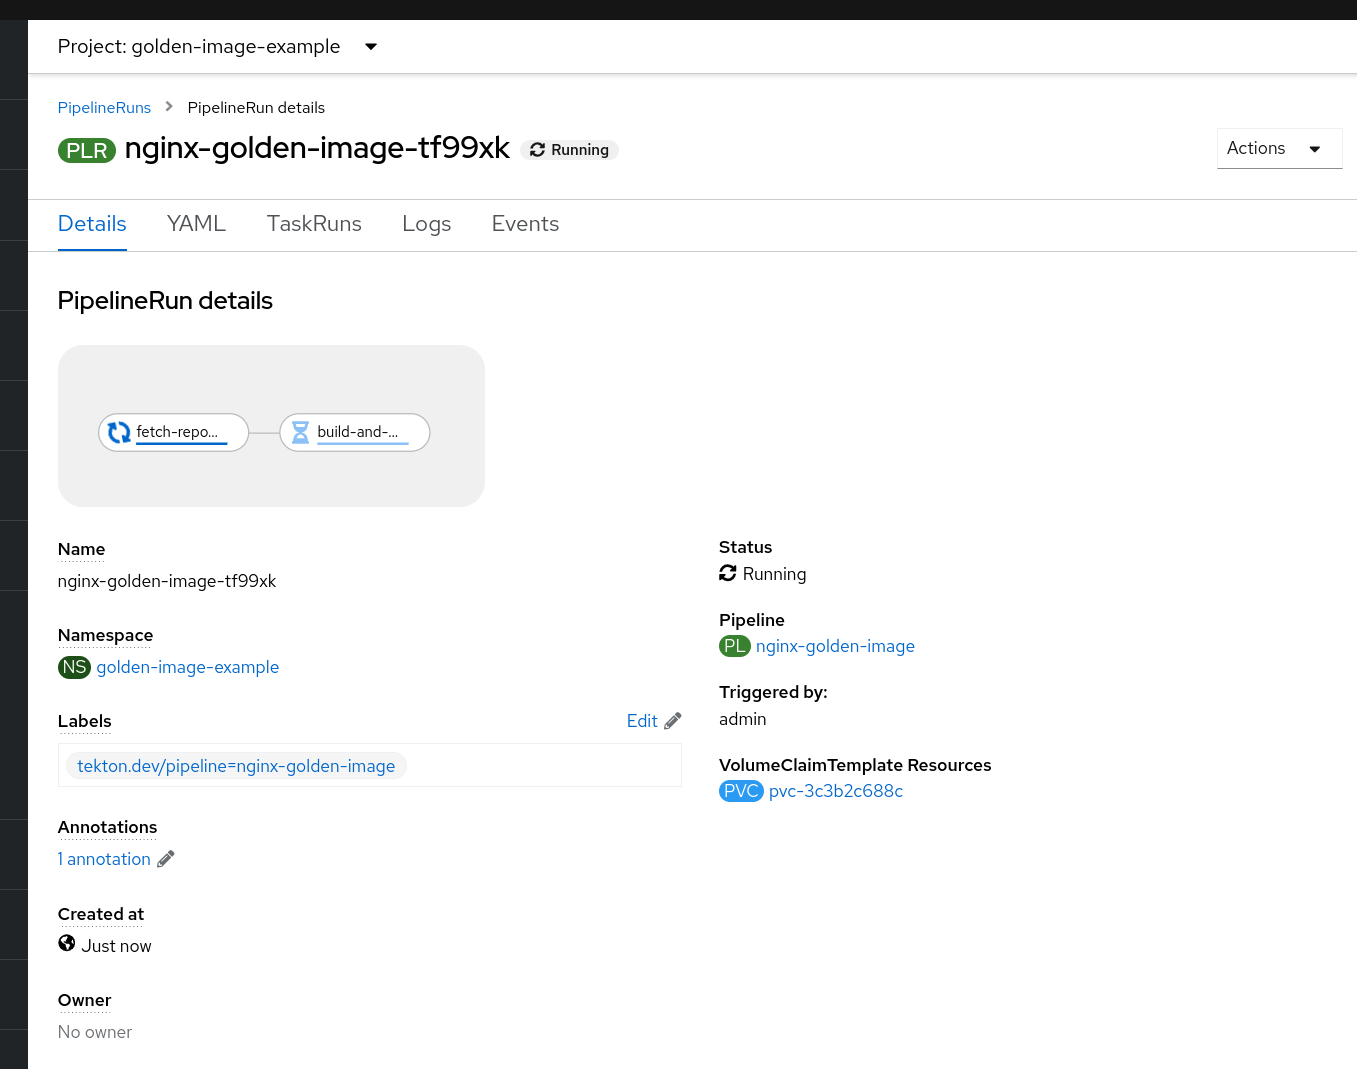
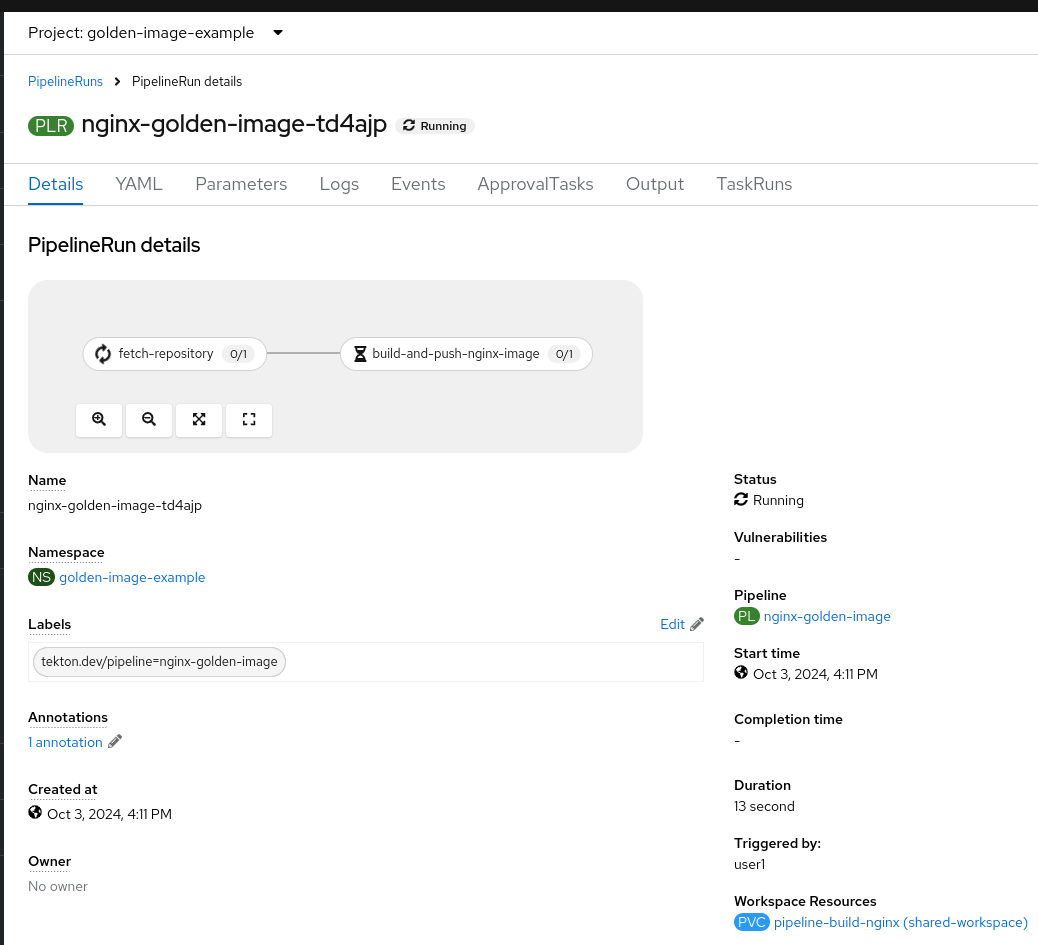
updating details of readme

diff --git a/README.md b/README.md
@@ -39,43 +39,67 @@ It's assumed you have:
     oc create -f ../nginx/tekton/pipeline.yaml -n golden-image-example
     ```
 
-4.  Log in to the OpenShift web console and navigate to the pipelines for your newly create `golden-image-example` project:
+4.  Log in to the OpenShift web console, switch to the `golden-image-example` project, and navigate in the left hand section to Storage > PersistentVolumeClaims:
 
-    ![OCP Pipelines Overview](./readme-images/nginx_pipeline_overview.png)
+    ![OCP Storage PVC](./readme-images/storage_pvc.png)
 
-5.  Click the 3 dots to the right of the `nginx-golden-image` pipeline:
+5.  Click the `Create PersistentVolumeClaim` button:
+
+    ![Create PersistentVolumeClaim Button](./readme-images/pvc_button.png)
+
+6.  Create a PVC named `pipeline-build-php` of type `RWO` and size `1 GiB`. Then click `Create` **Note:** The available `StorageClass` will vary depending based upon your environment:
+
+    ![Create php build PersistentVolumeClaim](./readme-images/php_build_pvc.png)
+
+7.  You should now have an overview of your newly created `pipeline-build-php` PersistentVolumeClaim. Return back via the left hand navigation to Storage > PersistentVolumeClaims:
+
+    ![php build PersistentVolumeClaim](./readme-images/php_build_pvc_overview.png)
+
+8.  Click the `Create PersistentVolumeClaim` button:
+
+    ![Create PersistentVolumeClaim Button](./readme-images/pvc_button.png)
+
+9.  Create a PVC named `pipeline-build-nginx` of type `RWO` and size `1 GiB`. Then click `Create` **Note:** The available `StorageClass` will vary depending based upon your environment:
+
+    ![Create nginx build PersistentVolumeClaim](./readme-images/nginx_build_pvc.png)
+
+10. You should now have an overview of your newly created `pipeline-build-nginx` PersistentVolumeClaim. Navigate via the left hand navigation to the previously created pipelines:
+
+    ![nginx build PersistentVolumeClaim](./readme-images/nginx_build_pvc_overview.png)
+
+11. Click the 3 dots to the right of the `nginx-golden-image` pipeline and click `Start`:
 
     ![OCP Pipelines Nginx 3 Dots](./readme-images/nginx_pipeline_dots.png)
 
-6.  Modify the shared-workspace section to `VolumeClaimTemplate`:
+12. Modify the shared-workspace section to `PersistentVolumeClaim`:
 
-    ![OCP Pipelines Nginx VolumeClaim Template](./readme-images/nginx_pipeline_vc_template.png)
+    ![OCP Pipelines Nginx PVC](./readme-images/nginx_pipeline_pvc1.png)
 
-7.  Now click `Start`:
+13. Select the previously created `pipeline-build-nginx` PVC. Now click `Start`:
 
-    ![OCP Pipelines Nginx VolumeClaim Template](./readme-images/nginx_pipeline_start.png)
+    ![OCP Pipelines Nginx PVC](./readme-images/nginx_pipeline_pvc2.png)
 
-8.  You will be redirected to the newly created pipeline run:
+14. You will be redirected to the newly created pipeline run:
 
     ![OCP Pipelines Nginx Pipeline Run](./readme-images/nginx_pipeline_run.png)
 
-9.  Go back to the left hand section and selection `Pipelines`:
+15. Go back to the left hand section and selection `Pipelines`:
 
     ![OCP Pipelines](./readme-images/pipelines.png)
 
-10. We're now going to do the same for `php-golden-image`.
+16. We're now going to do the same for `php-golden-image`.
 
     ![OCP Pipelines Overview](./readme-images/php_pipeline_overview.png)
 
-11. Follow the steps you did for nginx with php, again making sure to select `VolumeClaimTemplate`
+17. Follow the steps you did for nginx with php, again making sure to select `PersistentVolumeClaim`
 
-    ![OCP Pipelines PHP VolumeClaim Template](./readme-images/php_pipeline_start.png)
+    ![OCP Pipelines PHP PersistentVolumeClaim](./readme-images/php_pipeline_start.png)
 
-12. Back in the pipelines section you should see both pipeline successfully build and turn green after a few minutes:
+18. Back in the pipelines section you should see both pipeline successfully build and turn green after a few minutes:
 
     ![Image Pipelines](./readme-images/image_pipelines.png)
 
-13. Now back to the command line! We created a tekton pipeline that has a few custom tasks. So we're going to have to create those tasks first:
+19. Now back to the command line! We created a tekton pipeline that has a few custom tasks. So we're going to have to create those tasks first:
 
     ```console
     oc create -f ./tekton/apply_manifest_task.yaml -n golden-image-example
@@ -85,13 +109,13 @@ It's assumed you have:
     oc create -f ./tekton/oc_exec_task.yaml -n golden-image-example
     ```
 
-14. Now with those tasks created, we're going to create our pipeline for our application that will use our newly created golden "base images" built by the `nginx-golden-image` and `php-golden-image` pipelines.
+20. Now with those tasks created, we're going to create our pipeline for our application that will use our newly created golden "base images" built by the `nginx-golden-image` and `php-golden-image` pipelines.
 
     ```console
     oc create -f ./tekton/pipeline.yaml -n golden-image-example
     ```
 
-15. Now if we go back to the Pipelines section in the OpenShift web-console, we'll see our newly created `deploy-example-website` pipeline. As before, click the 3 dots to the right and click start:
+21. Now if we go back to the Pipelines section in the OpenShift web-console, we'll see our newly created `deploy-example-website` pipeline. As before, click the 3 dots to the right and click start:
 
     ![Deploy Example Website Start](./readme-images/deploy_example_pipeline_start.png)
 
